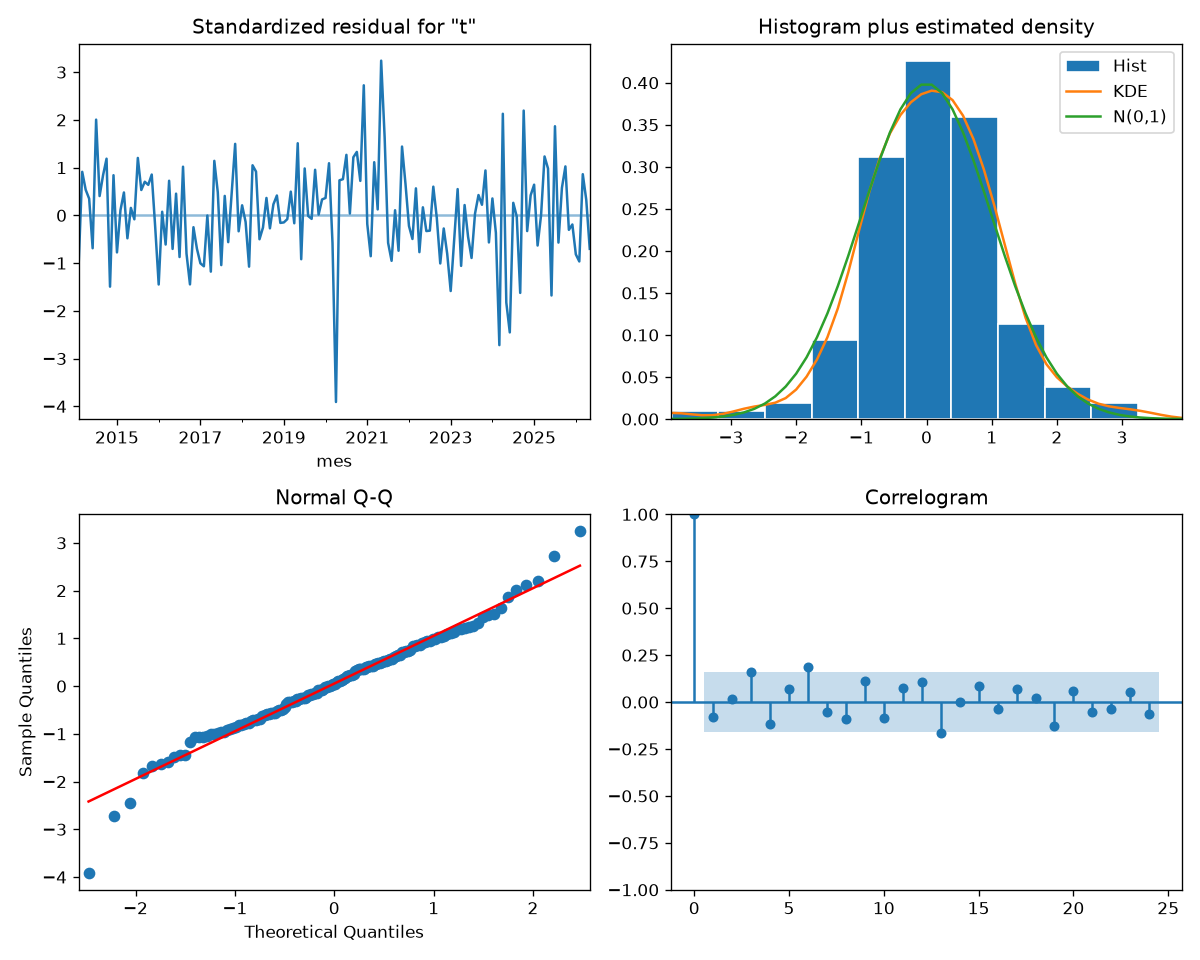
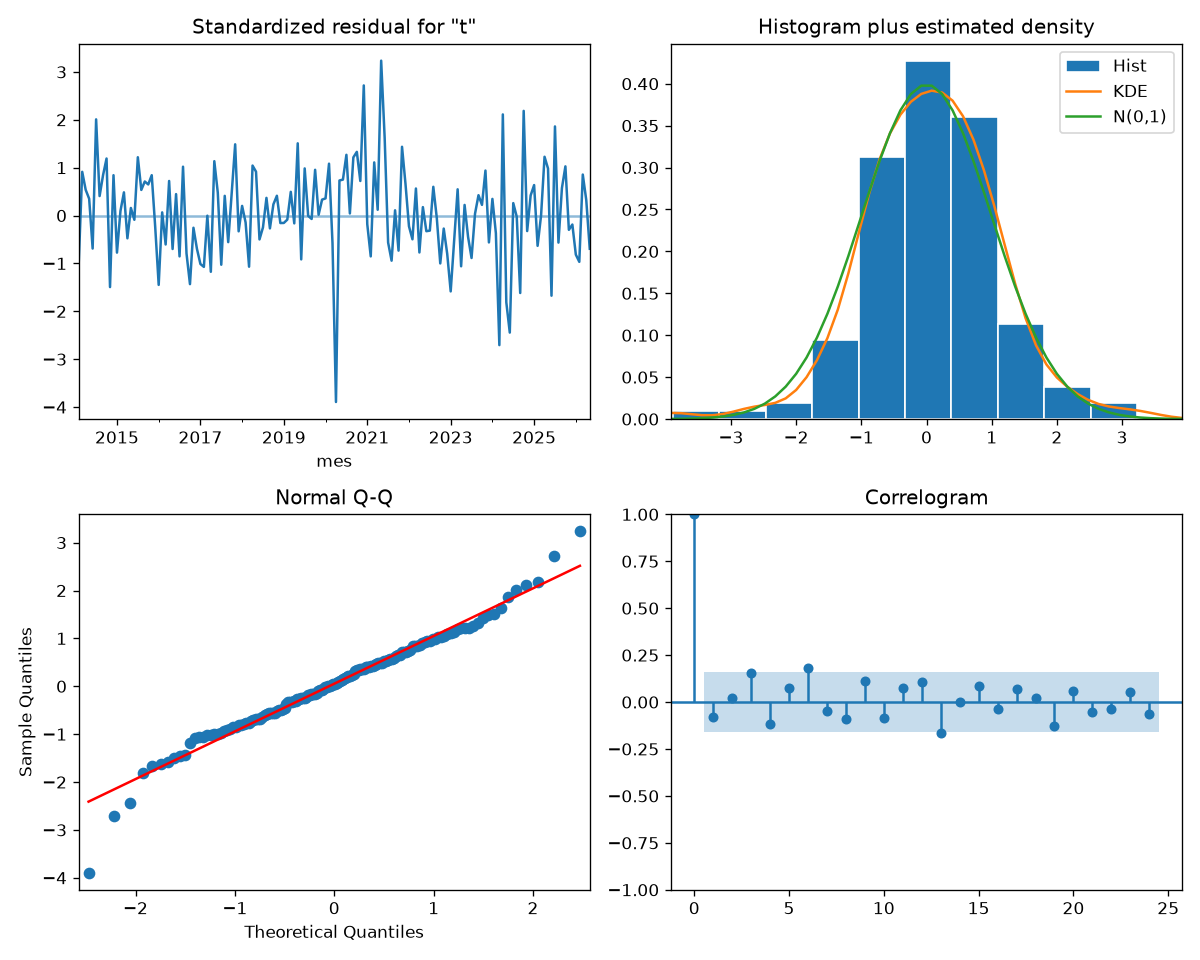
Punto 4. Modelos Clásicos: Sarimax. Se adjunta modelo sarimax

diff --git a/miniproyecto.py b/miniproyecto.py
@@ -265,9 +265,19 @@ def modelo_sarimax(orden, orden_estacional, x):
     Use x.loc[entrenamiento.index] para ajustar y
     x.loc[fechas_siguientes(entrenamiento, h)] para pronosticar.
     """
-    raise NotImplementedError("SARIMAX en el backtest")
+    def pronosticar(entrenamiento, h):
+        fechas_futuras = fechas_siguientes(entrenamiento, h)
+        exog_entrenamiento = x.loc[entrenamiento.index]
+        exog_futuras = x.loc[fechas_futuras]
+        ajuste = ARIMA(
+            entrenamiento / ESCALA,
+            order=orden,
+            seasonal_order=orden_estacional,
+            exog=exog_entrenamiento,
+        ).fit()
+        return ajuste.forecast(steps=h, exog=exog_futuras).to_numpy() * ESCALA
 
-
+    return pronosticar
 # ============================================================
 # 5. La tabla de métricas
 # ============================================================
